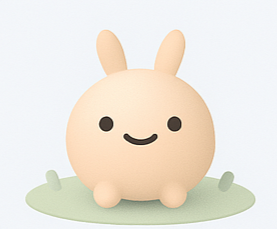
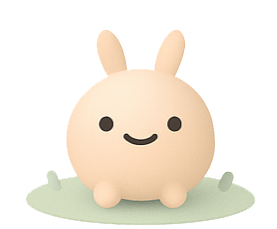
Added a pet page

diff --git a/pet.html b/pet.html
@@ -1,0 +1,169 @@
+<!DOCTYPE html>
+<html lang="en">
+<head>
+  <meta charset="UTF-8"/>
+  <meta name="viewport" content="width=device-width, initial-scale=1.0"/>
+  <title>Your Pet</title>
+  <link href="https://fonts.googleapis.com/css2?family=Nunito:wght@400;600;700&display=swap" rel="stylesheet"/>
+  <link rel="stylesheet" href="/css/styles.css"/>
+  <style>
+    body 
+    {
+      font-family: 'Nunito', sans-serif;
+      margin: 0;
+      display: flex;
+      height: 100vh;
+      background: #fff;
+    }
+
+    .sidebar li a 
+    {
+        display: block;
+        text-decoration: none;
+        color: inherit;
+        width: 100%;
+        height: 100%;
+    }
+
+    .sidebar .active 
+    {
+      background: white;
+      box-shadow: 0 0 10px rgba(0, 0, 0, 0.05);
+    }
+
+    .main 
+    {
+      flex-grow: 1;
+      display: flex;
+      flex-direction: column;
+      padding: 2rem;
+      position: relative;
+    }
+
+    .main-header {
+      display: flex;
+      justify-content: space-between;
+      align-items: center;
+    }
+
+    .main-header h2 {
+      margin: 0;
+    }
+
+    .profile {
+      display: flex;
+      align-items: center;
+      gap: 0.5rem;
+    }
+
+    .profile img {
+      width: 30px;
+      height: 30px;
+      border-radius: 50%;
+    }
+
+    .pet-section 
+    {
+      display: flex;
+      justify-content: space-between;
+      align-items: flex-start;
+      margin-top: 2rem;
+    }
+
+    .pet-center {
+      flex: 1;
+      display: flex;
+      flex-direction: column;
+      align-items: center;
+    }
+
+    .pet-center img 
+    {
+      width: 600px;
+    }
+
+    .pet-buttons {
+      margin-top: 2rem;
+      display: flex;
+      gap: 1.5rem;
+    }
+
+    .pet-buttons button {
+      background: #ffe9e5;
+      border: none;
+      padding: 0.75rem 1.5rem;
+      border-radius: 2rem;
+      font-size: 1rem;
+      cursor: pointer;
+    }
+
+    .pet-status {
+      width: 200px;
+    }
+
+    .pet-status h4 {
+      margin-bottom: 0.5rem;
+      font-weight: 600;
+    }
+
+    .pet-status .bar {
+      width: 100%;
+      height: 8px;
+      background: #eee;
+      border-radius: 5px;
+      margin-bottom: 1.5rem;
+    }
+
+    .pet-status .bar-fill
+     {
+      height: 100%;
+      background: #adcaa6;
+      border-radius: 5px;
+    }
+
+  </style>
+</head>
+<body>
+  <div class="sidebar">
+    <h1>Mental</h1>
+    <ul>
+        <li><a href="index.html">Home</a></li>
+        <li><a href="breathing.html">Breathing</a></li>
+        <li class="active"><a href="pet.html">Pet</a></li>
+        <li><a href="journal.html">Journal</a></li>
+        <li><a href="games.html">Games</a></li>
+      </ul>
+  </div>
+
+  <div class="main">
+    <div class="main-header">
+      <h2>Your Pet</h2>
+      <div class="profile">
+        <span>test_username</span>
+        <img src="/img/profile.png" alt="User Icon"/>
+      </div>
+    </div>
+
+    <div class="pet-section">
+      <div class="pet-center">
+        <img src="/img/pet.png" alt="Pet"/>
+        <div class="pet-buttons">
+          <button>Play</button>
+          <button>Wardrobe</button>
+          <button>Feed</button>
+        </div>
+      </div>
+      <div class="pet-status">
+        <h4>Happiness</h4>
+        <div class="bar"><div class="bar-fill" style="width: 80%"></div></div>
+
+        <h4>Food</h4>
+        <div class="bar"><div class="bar-fill" style="width: 70%"></div></div>
+
+        <h4>Sleep</h4>
+        <div class="bar"><div class="bar-fill" style="width: 50%"></div></div>
+      </div>
+    </div>
+  </div>
+</body>
+</html>

diff --git a/index.html b/index.html
@@ -13,11 +13,11 @@
       <h1>Mental</h1>
       <nav>
         <ul>
-          <li class="active">Home</li>
-          <li>Breathing</li>
-          <li>Pet</li>
-          <li>Journal</li>
-          <li>Games</li>
+          <li class="active"><a href="index.html">Home</a></li>
+          <li><a href="breathing.html">Breathing</a></li>
+          <li ><a href="pet.html">Pet</a></li>
+          <li><a href="journal.html">Journal</a></li>
+          <li><a href="games.html">Games</a></li>
         </ul>
       </nav>
     </aside>

diff --git a/css/styles.css b/css/styles.css
@@ -128,4 +128,16 @@
     color: white;
   }
   
+  .sidebar li a 
+  {
+      display: block;
+      text-decoration: none;
+      color: inherit;
+      width: 100%;
+      height: 100%;
+  }
+
+
   /* -------------------------------------------------------------- */
+  /* PET PAGE */
+
